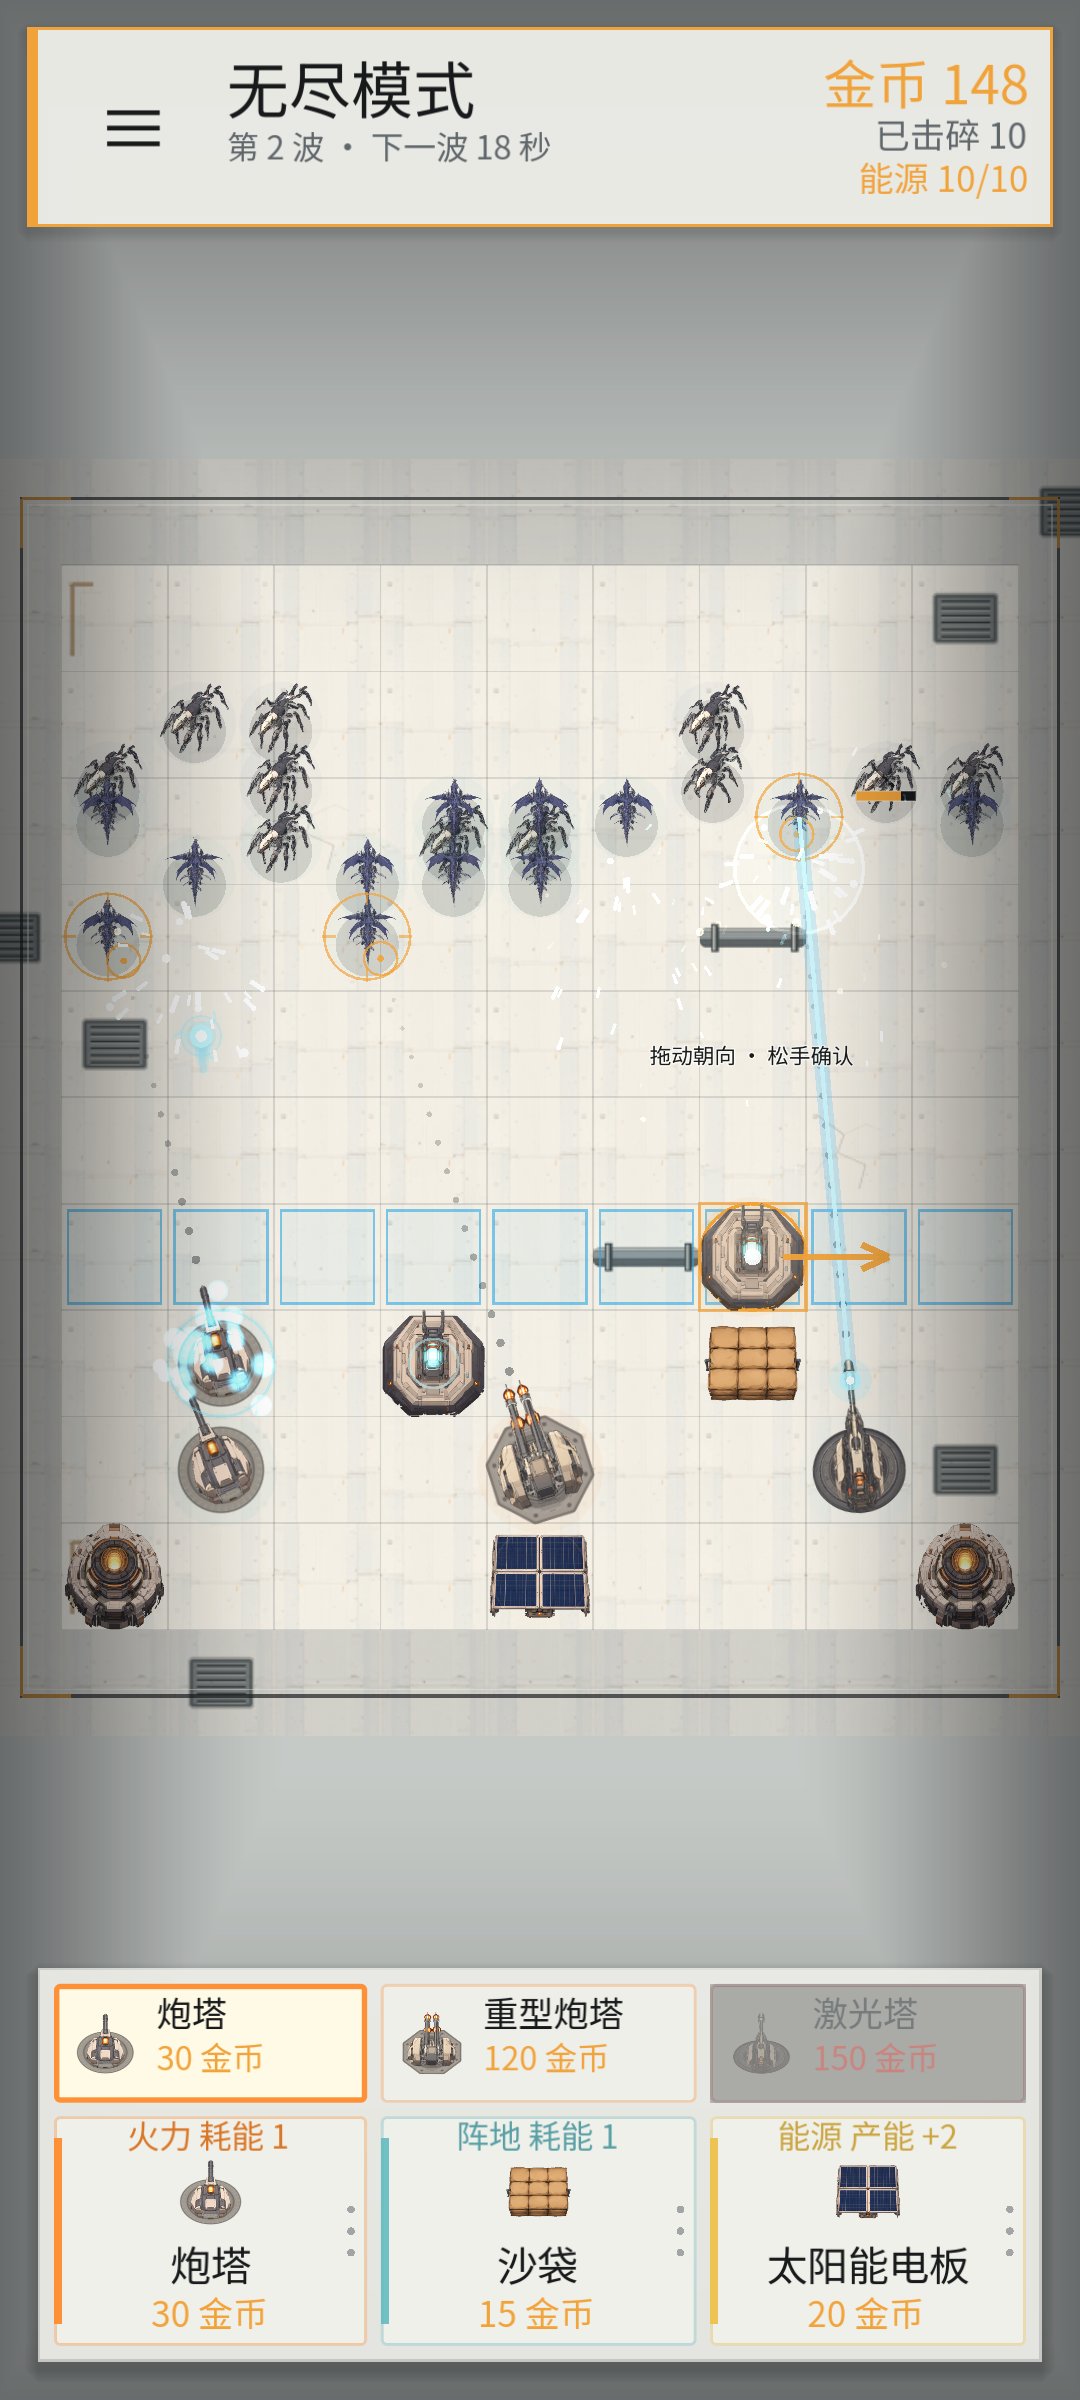
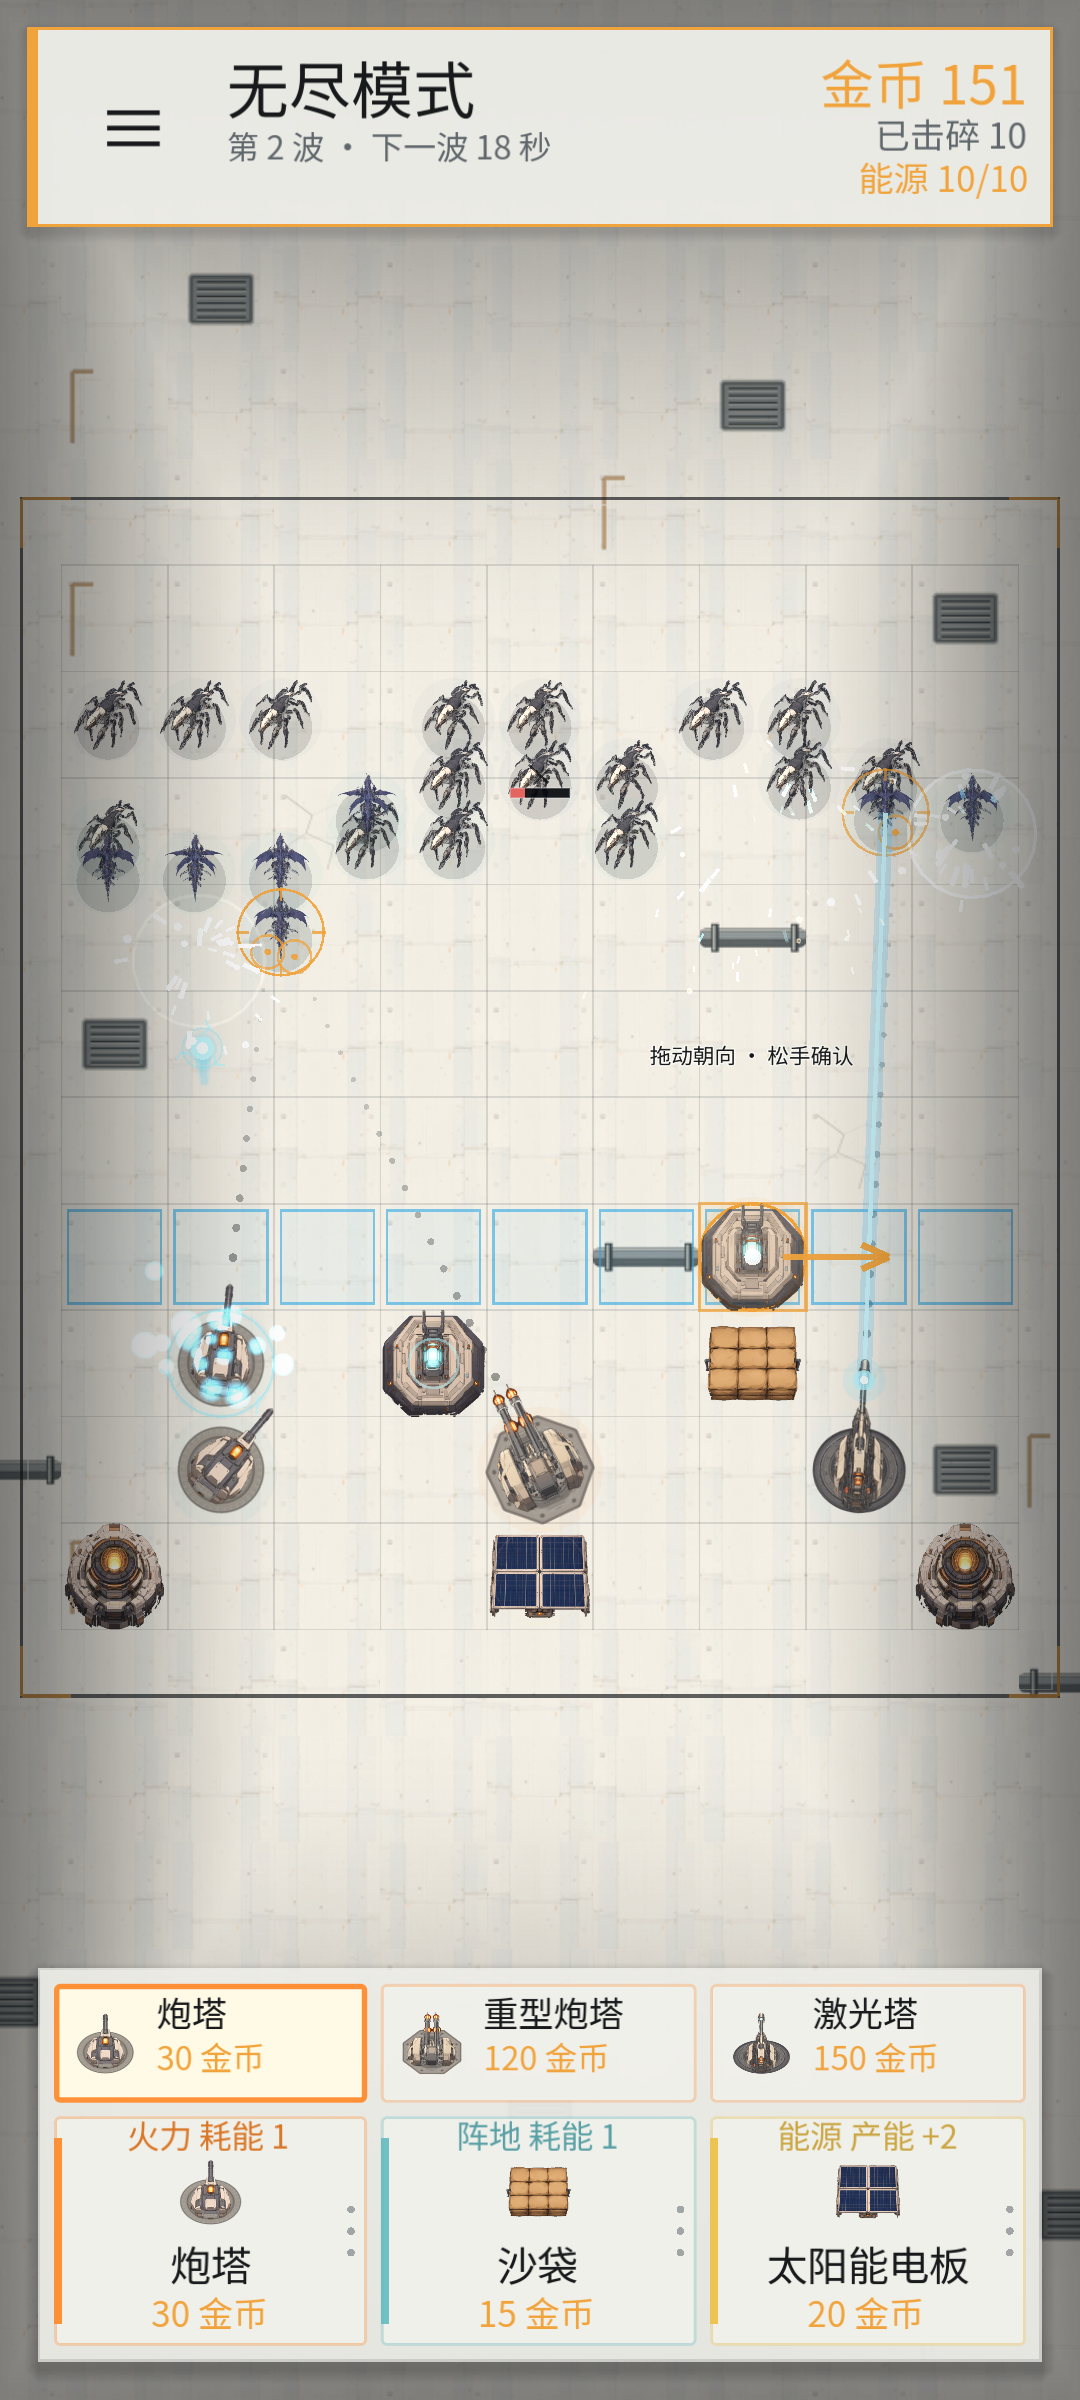
fix: 消除战场内外地面分层

diff --git a/docs/map_system_refactor_proposal.md b/docs/map_system_refactor_proposal.md
@@ -68,8 +68,7 @@ assets/tilesets/
 
 ```text
 Battlefield
-├── GroundLayer        TileMapLayer：地面与外围工业地面
-├── EdgeLayer          TileMapLayer：边界、拐角和地面过渡
+├── GroundLayer        TileMapLayer：连续铺满镜头内外的统一地面
 ├── DecorationLayer    TileMapLayer：管线、裂缝等装饰
 ├── HighlightLayer     Node2D：放置和范围高亮
 └── Actors             现有怪物、建筑、炮弹与特效
@@ -146,7 +145,7 @@ Battlefield
 - 瓦片尺寸直接读取 TileSet，统一为 64 × 64px，不在每张 JSON 中重复配置。
 - 可放置格必须满足：位于地图内、地面非空、不在 `blocked_cells` 中、当前没有建筑。
 - 战斗边界由 `size` 和 TileSet 瓦片尺寸计算，不再使用硬编码的 `PLAY_RECT`。
-- 外围边框和工业地面由加载器使用同一 TileSet 绘制，相机根据地图实际尺寸自动适配。
+- 战斗区内外由加载器连续铺设同一组地面瓦片，外围只增加装饰；相机根据地图实际尺寸自动适配。
 
 ## 7. 地图加载流程
 
@@ -156,7 +155,7 @@ Battlefield
 2. 读取 `res://data/maps/industrial_01.json`。
 3. 解析 JSON 并校验版本、字段类型、地图尺寸、数组长度和瓦片名称。
 4. 加载 JSON 指定的 TileSet。
-5. 清空并重新填充 Ground、Edge、Decoration 三个 `TileMapLayer`。
+5. 清空并重新填充 Ground、Decoration 两个 `TileMapLayer`。
 6. 建立世界边界、瓦片坐标缓存和可建造格集合。
 7. 初始化怪物、建筑、高亮和交互系统。
 8. 相机根据地图实际尺寸缩放，继续保证完整地图位于 HUD 与商店之间。
@@ -316,7 +315,7 @@ get_occupied_building(cell)
 ## 16. 实施与验证结果
 
 - 默认地图 `data/maps/industrial_01.json` 已接入，保持 9×10、64×64px 建筑格。
-- 地面、外围和装饰由 JSON 与同一工业 TileSet 生成，不再引用整张战场背景。
+- 战斗区与外围由 JSON 和同一工业 TileSet 连续生成，不再使用深色外圈或独立背景板。
 - 放置、拆除、摧毁、射程、索敌和压缩塔已迁移到统一瓦片坐标与占用数据。
 - 绿色可放置、红色非法、青色射程与施法高亮已接入统一 `TileHighlights`。
 - ComfyUI 工业源材质已处理为无缝图集；处理脚本保留在 `tools/generate_map_art.py` 和 `tools/process_map_tiles.py`。

diff --git a/README.md b/README.md
@@ -149,7 +149,7 @@ Godot_v4.7.2-stable_win64.exe --headless --fixed-fps 60 --path . res://tools/res
 
 ## JSON 瓦片地图
 
-战场只有一个 `scenes/main.tscn`。启动时 `scripts/arena.gd` 加载 `data/maps/industrial_01.json`，`scripts/map_loader.gd` 校验数据并生成 Ground、Edge、Decoration 三个 `TileMapLayer`。第一张地图保持 9×10 个建筑格，所有格子严格为 64×64px，放置吸附、建筑占用、射程、高亮和索敌共用 `Vector2i` 瓦片坐标。
+战场只有一个 `scenes/main.tscn`。启动时 `scripts/arena.gd` 加载 `data/maps/industrial_01.json`，`scripts/map_loader.gd` 校验数据并生成 Ground、Decoration 两个 `TileMapLayer`。战斗区内外共用连续地面，外围继续铺设同款瓦片至镜头外，只增加工业装饰，不使用深色外圈或独立背景板。第一张地图保持 9×10 个建筑格，所有格子严格为 64×64px，放置吸附、建筑占用、射程、高亮和索敌共用 `Vector2i` 瓦片坐标。
 
 新增地图时复制一个 JSON，修改 `size`、`palette`、按行排列的 `layers.ground`、可选 `layers.decoration` 和 `blocked_cells` 即可，不需要新增场景或修改战斗脚本。地面中的 `null` 表示空格；空格、阻挡格与已占用格不能建造。地图数据格式与加载流程详见 [战场瓦片化与 JSON 地图数据改造方案](docs/map_system_refactor_proposal.md)。
 
